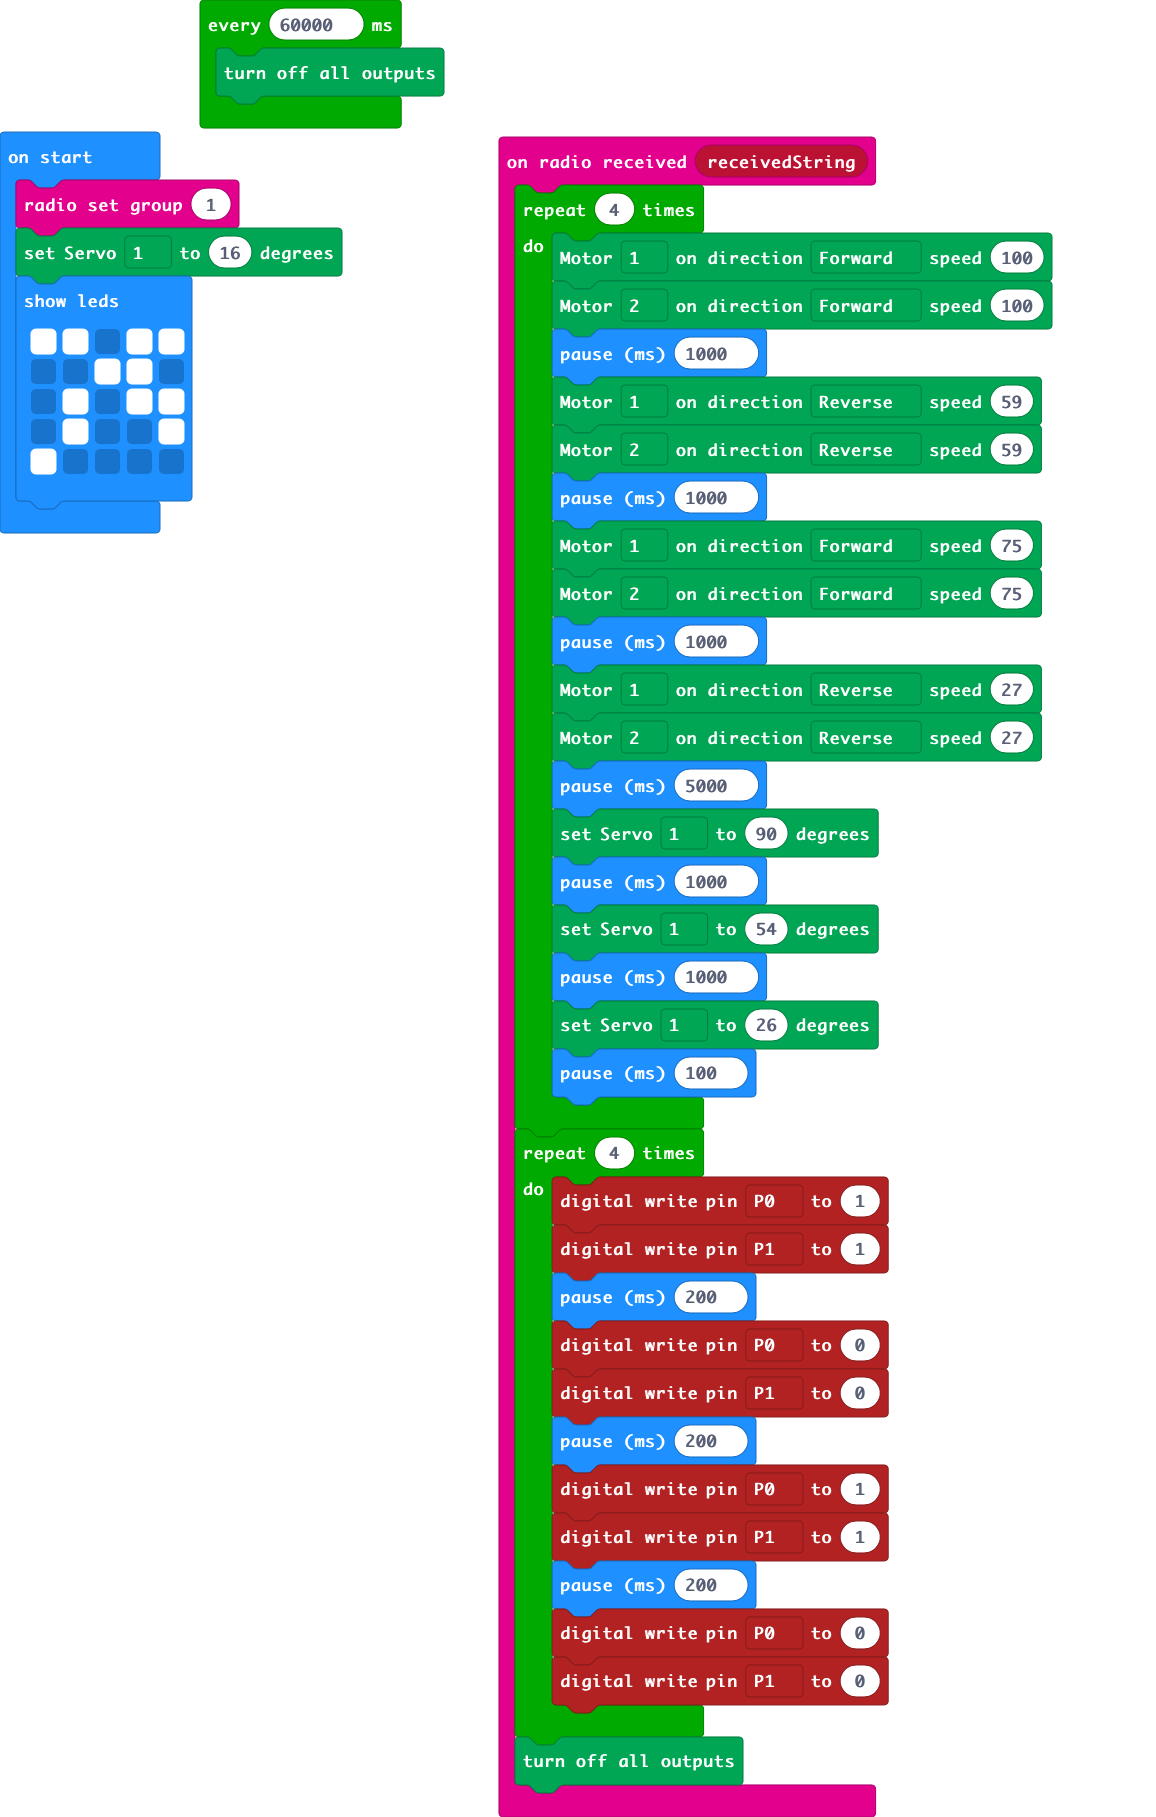
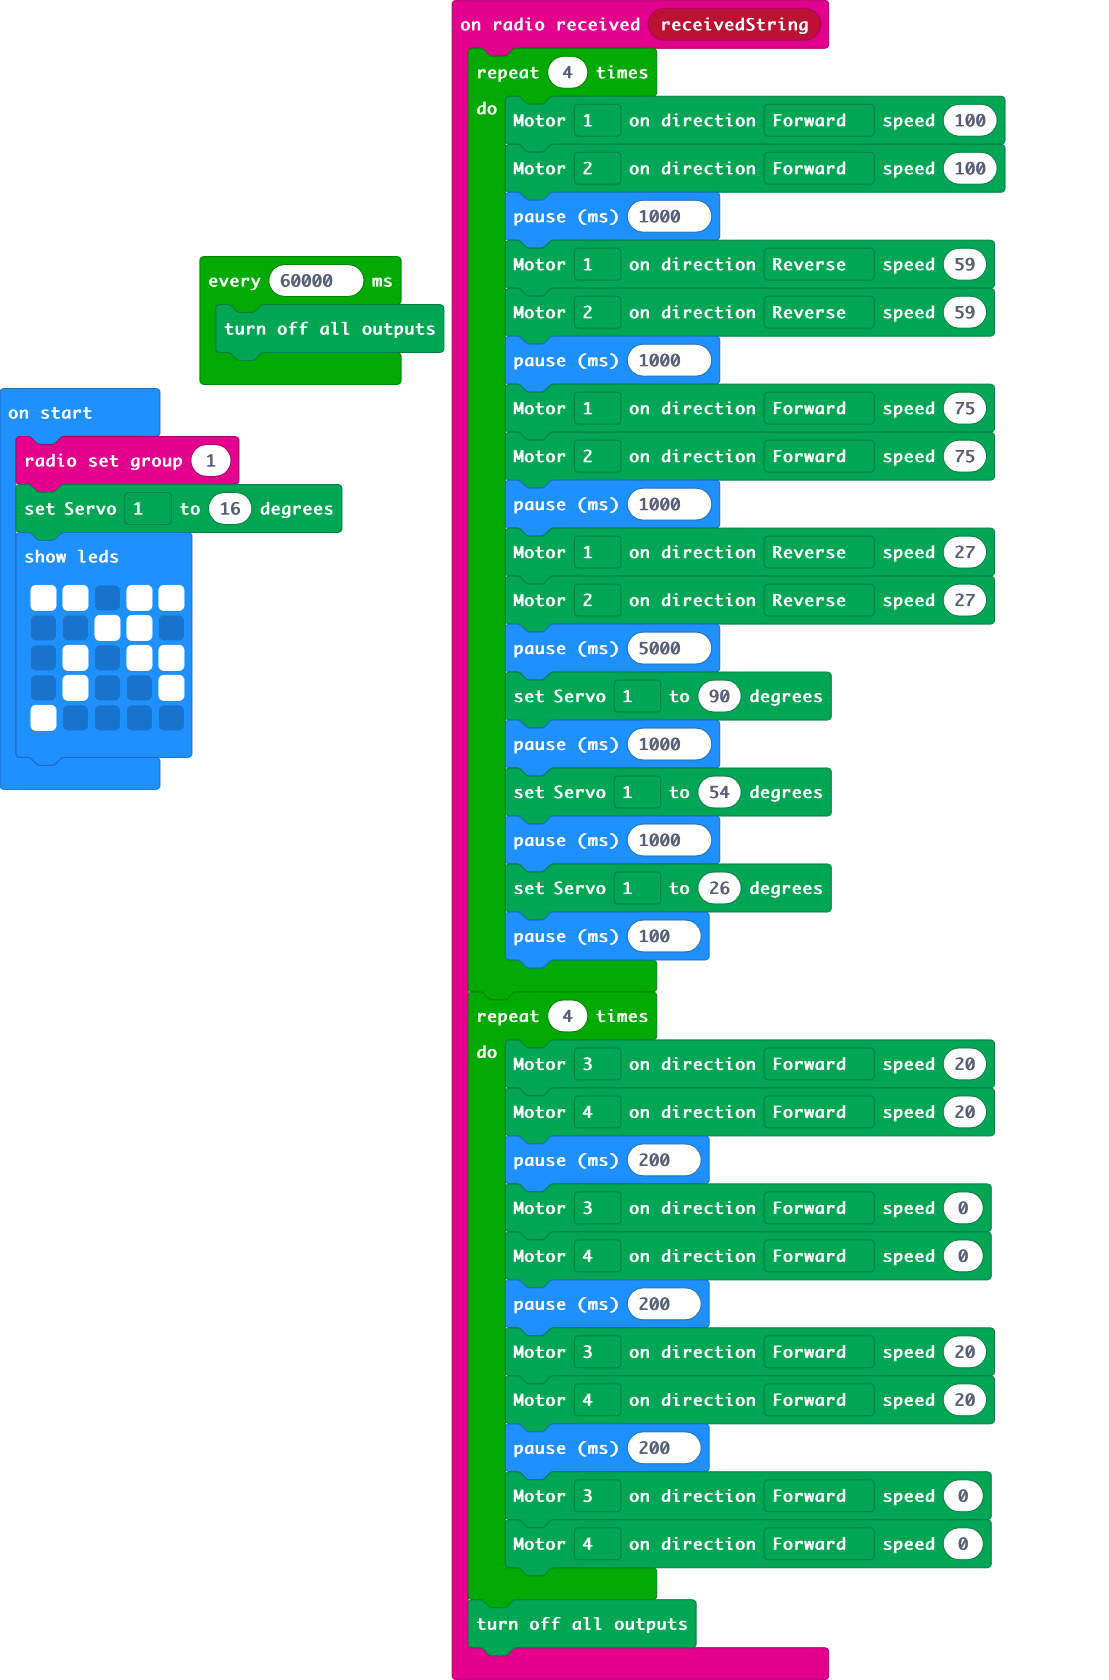
Update main.blocks, main.ts

diff --git a/main.ts b/main.ts
@@ -20,17 +20,17 @@ radio.onReceivedString(function (receivedString) {
         basic.pause(100)
     }
     for (let index = 0; index < 4; index++) {
-        pins.digitalWritePin(DigitalPin.P0, 1)
-        pins.digitalWritePin(DigitalPin.P1, 1)
+        Kitronik_Robotics_Board.motorOn(Kitronik_Robotics_Board.Motors.Motor3, Kitronik_Robotics_Board.MotorDirection.Forward, 20)
+        Kitronik_Robotics_Board.motorOn(Kitronik_Robotics_Board.Motors.Motor4, Kitronik_Robotics_Board.MotorDirection.Forward, 20)
         basic.pause(200)
-        pins.digitalWritePin(DigitalPin.P0, 0)
-        pins.digitalWritePin(DigitalPin.P1, 0)
+        Kitronik_Robotics_Board.motorOn(Kitronik_Robotics_Board.Motors.Motor3, Kitronik_Robotics_Board.MotorDirection.Forward, 0)
+        Kitronik_Robotics_Board.motorOn(Kitronik_Robotics_Board.Motors.Motor4, Kitronik_Robotics_Board.MotorDirection.Forward, 0)
         basic.pause(200)
-        pins.digitalWritePin(DigitalPin.P0, 1)
-        pins.digitalWritePin(DigitalPin.P1, 1)
+        Kitronik_Robotics_Board.motorOn(Kitronik_Robotics_Board.Motors.Motor3, Kitronik_Robotics_Board.MotorDirection.Forward, 20)
+        Kitronik_Robotics_Board.motorOn(Kitronik_Robotics_Board.Motors.Motor4, Kitronik_Robotics_Board.MotorDirection.Forward, 20)
         basic.pause(200)
-        pins.digitalWritePin(DigitalPin.P0, 0)
-        pins.digitalWritePin(DigitalPin.P1, 0)
+        Kitronik_Robotics_Board.motorOn(Kitronik_Robotics_Board.Motors.Motor3, Kitronik_Robotics_Board.MotorDirection.Forward, 0)
+        Kitronik_Robotics_Board.motorOn(Kitronik_Robotics_Board.Motors.Motor4, Kitronik_Robotics_Board.MotorDirection.Forward, 0)
     }
     Kitronik_Robotics_Board.allOff()
 })
